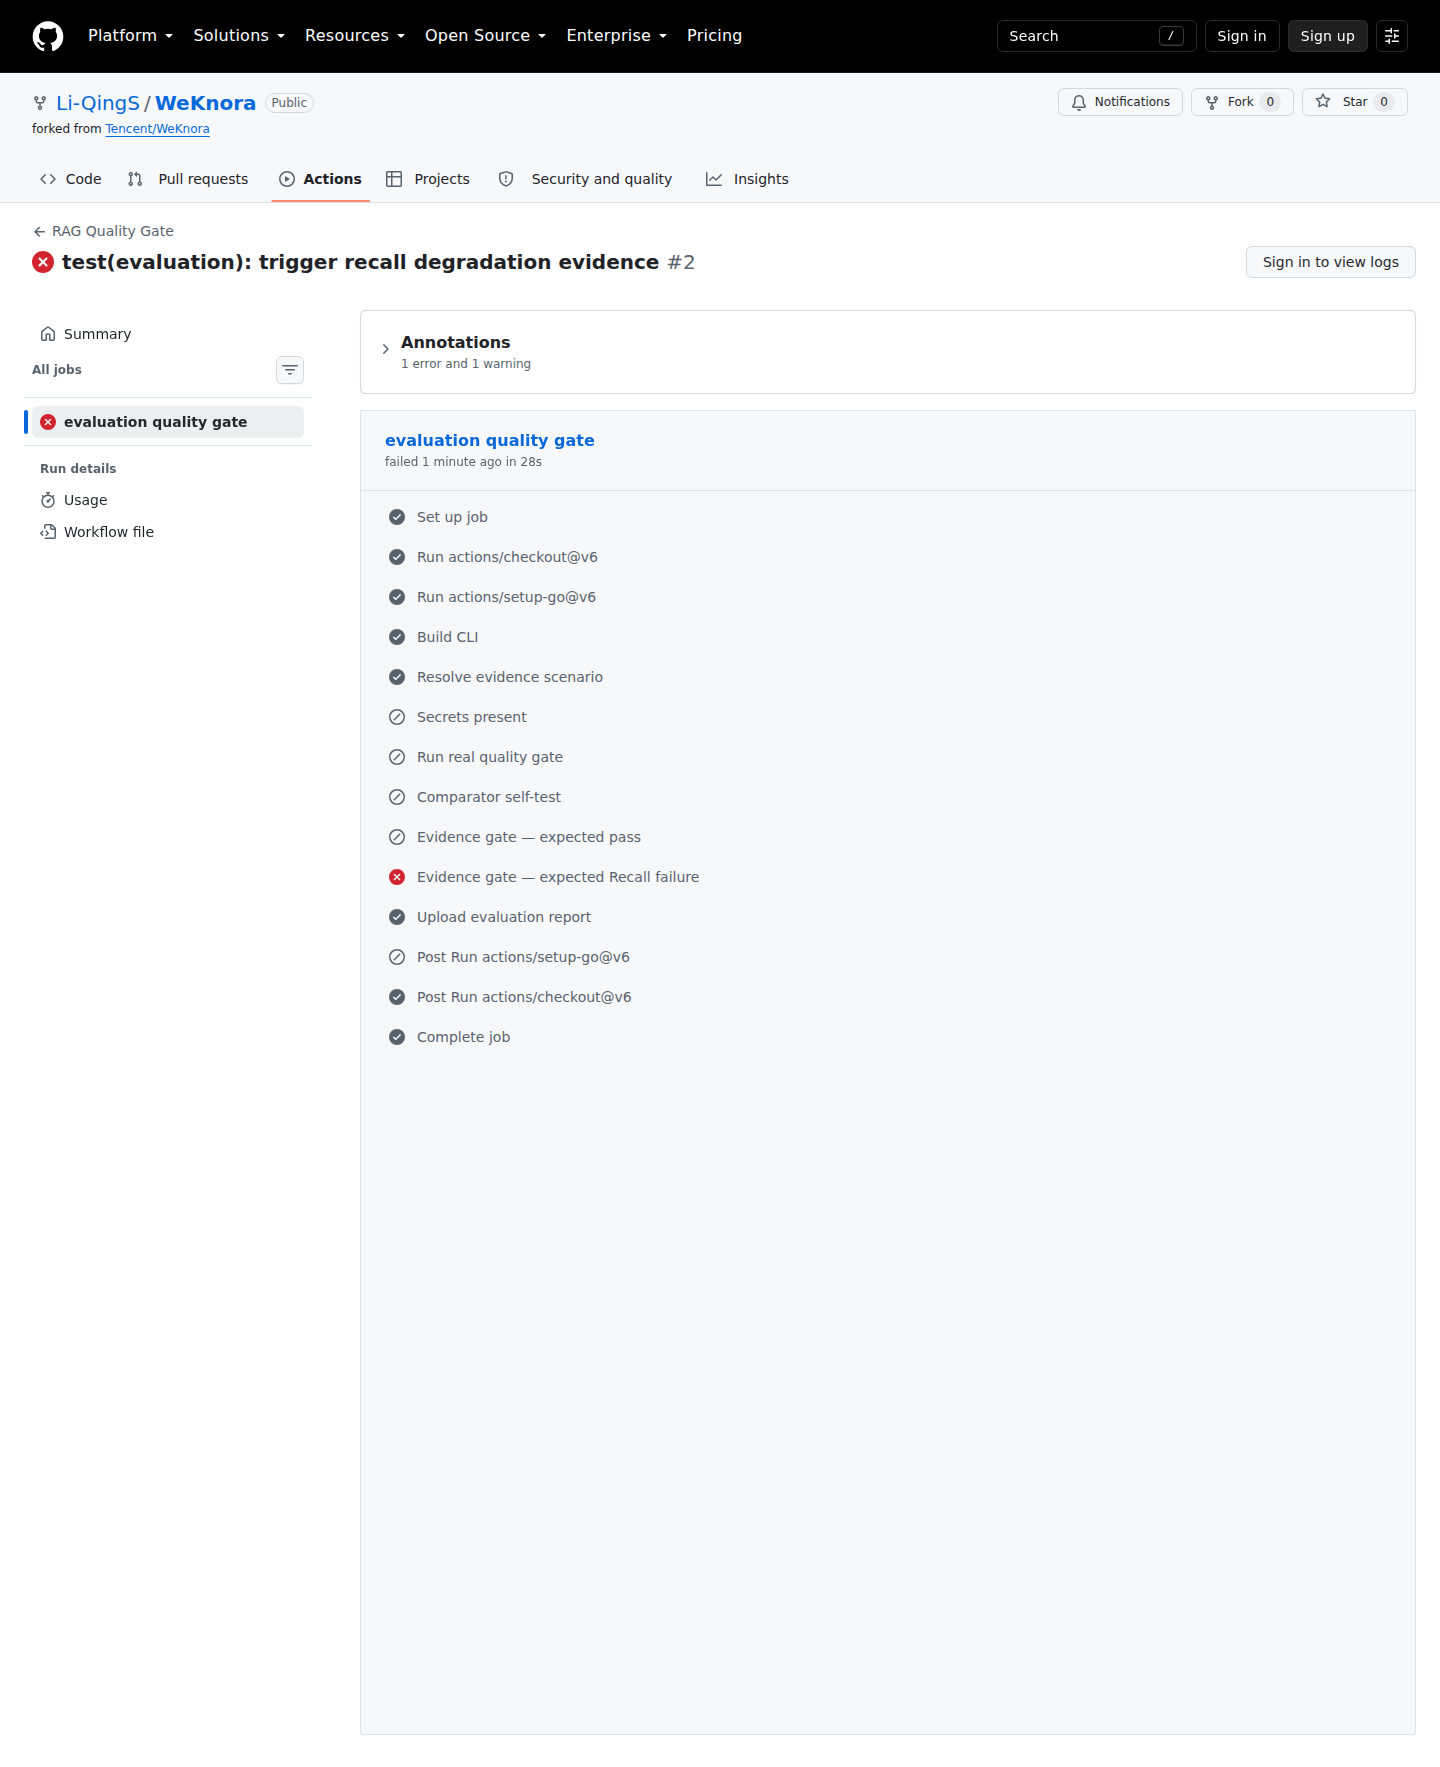
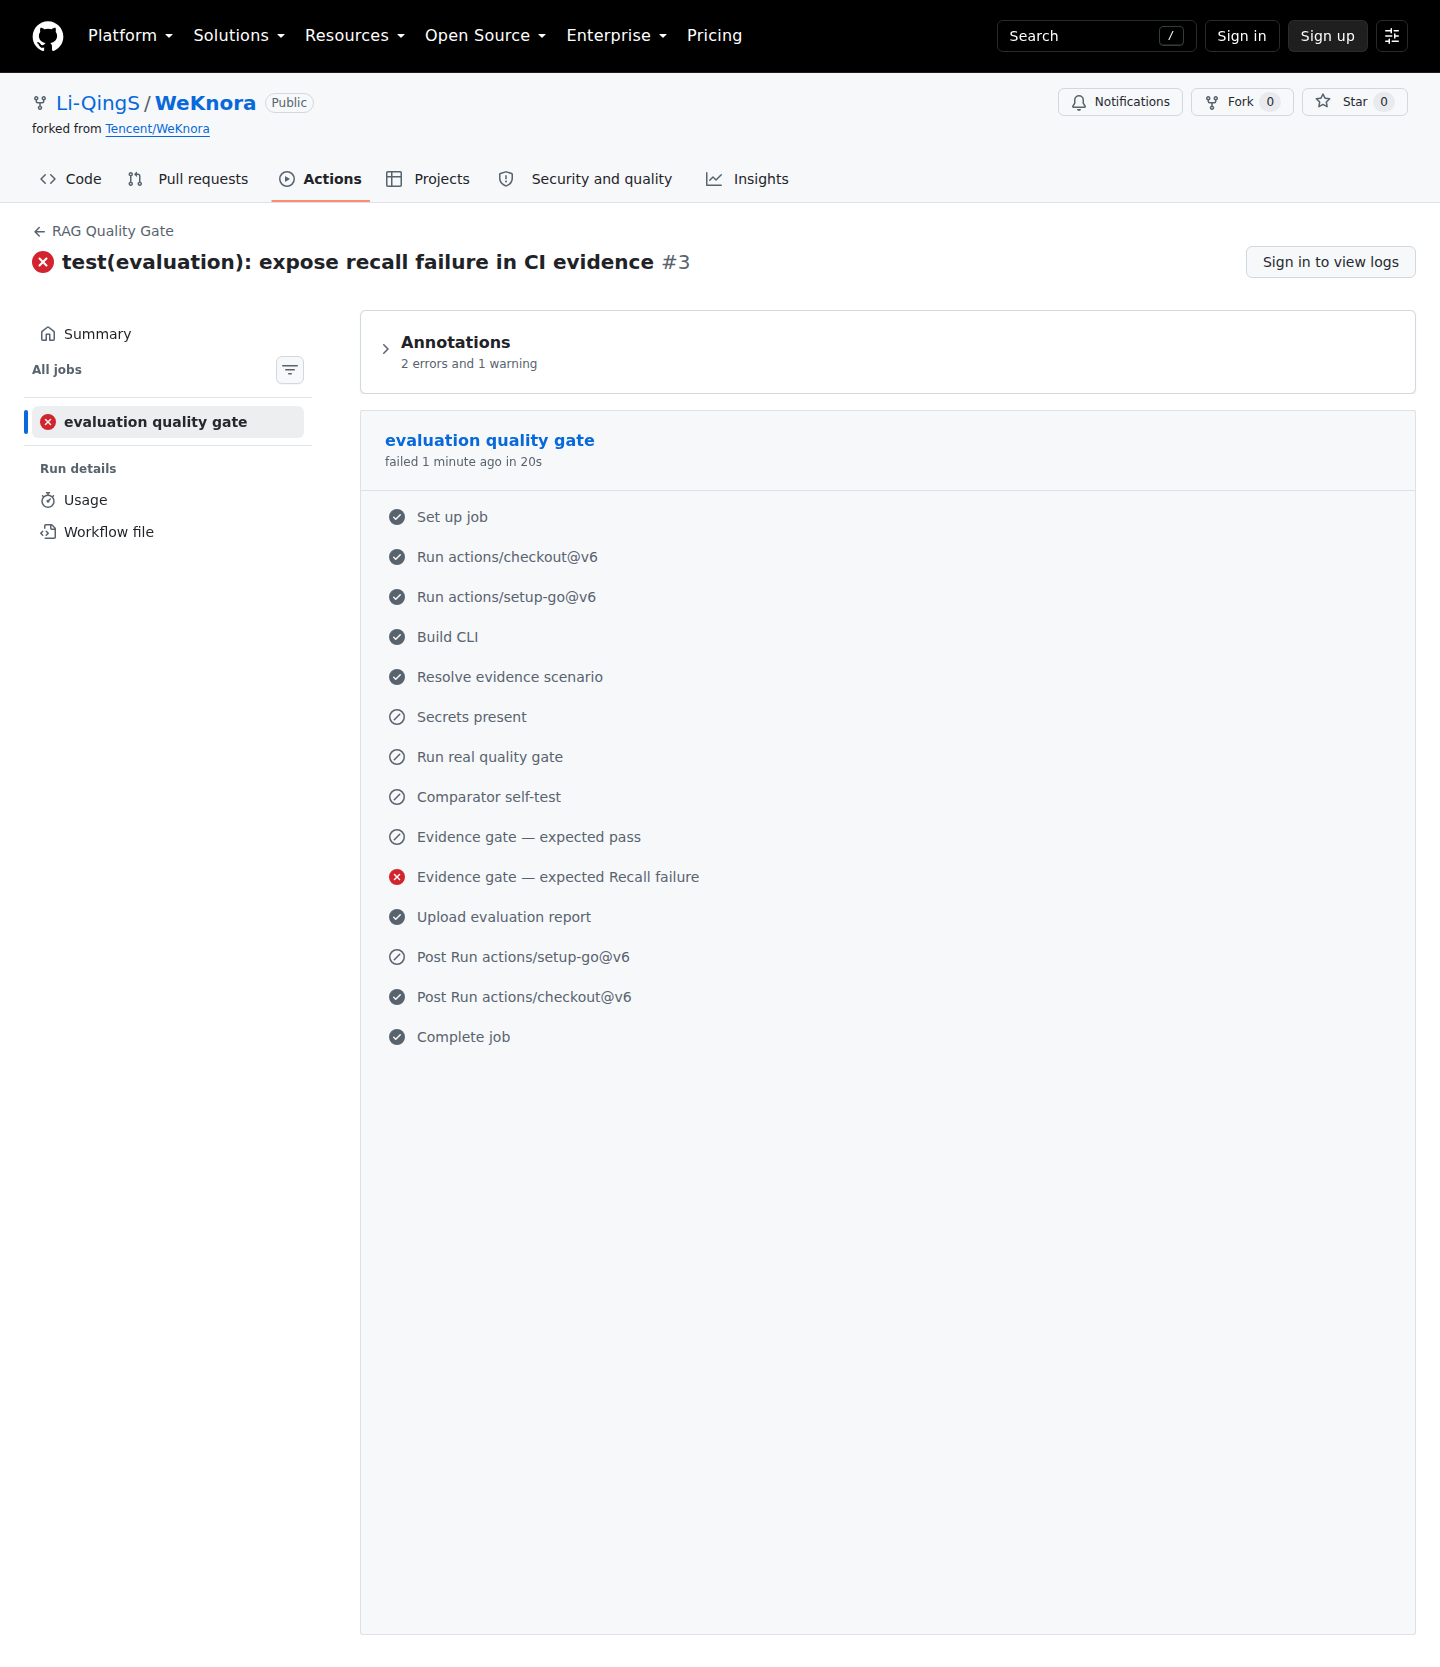
test(evaluation): restore passing CI evidence scenario

diff --git a/docs/evidence/ci-gate-2026-09-08/README.md b/docs/evidence/ci-gate-2026-09-08/README.md
@@ -8,6 +8,19 @@
 - 事件：`push`
 - 状态/结论：`completed` / `success`
 - Job：`evaluation quality gate` / `success`
-- 场景：正式 pass fixture，Recall `1.0`，比较器退出 `0`。
+- 输入：正式 pass fixture，Recall `1.0000`，比较器退出 `0`。
+- 截图：`pass-run.png`。
 
-失败场景完成后补充在本文件。
+## Recall 人为退化 Fail
+
+- Run ID：`34239374350`
+- URL：https://github.com/Li-QingS/WeKnora/actions/runs/34239374350
+- Commit：`3e4ee338a5bc716a856293636a371e8084473fe4`
+- 事件：`push`
+- 状态/结论：`completed` / `failure`
+- Job：`evaluation quality gate` / `failure`
+- 输入：runner 临时复制 pass fixture，只把 Recall 从 `1.0000` 降至 `0.6000`。
+- 门槛：`min_value=0.8000`、`max_absolute_drop=0.1000`；实测 `delta=0.4000`，比较器退出 `2`。
+- 截图：`fail-run.png` 的 GitHub error annotation 直接显示上述 baseline/current/delta/threshold/exit code；`fail-job.png` 展示失败步骤。
+
+原始 `*-run.json` 与 `*-jobs.json` 来自 GitHub 公共 Actions API，PNG 来自对应公开 run/job 页面。仓库不包含凭据和模型 Prompt。
